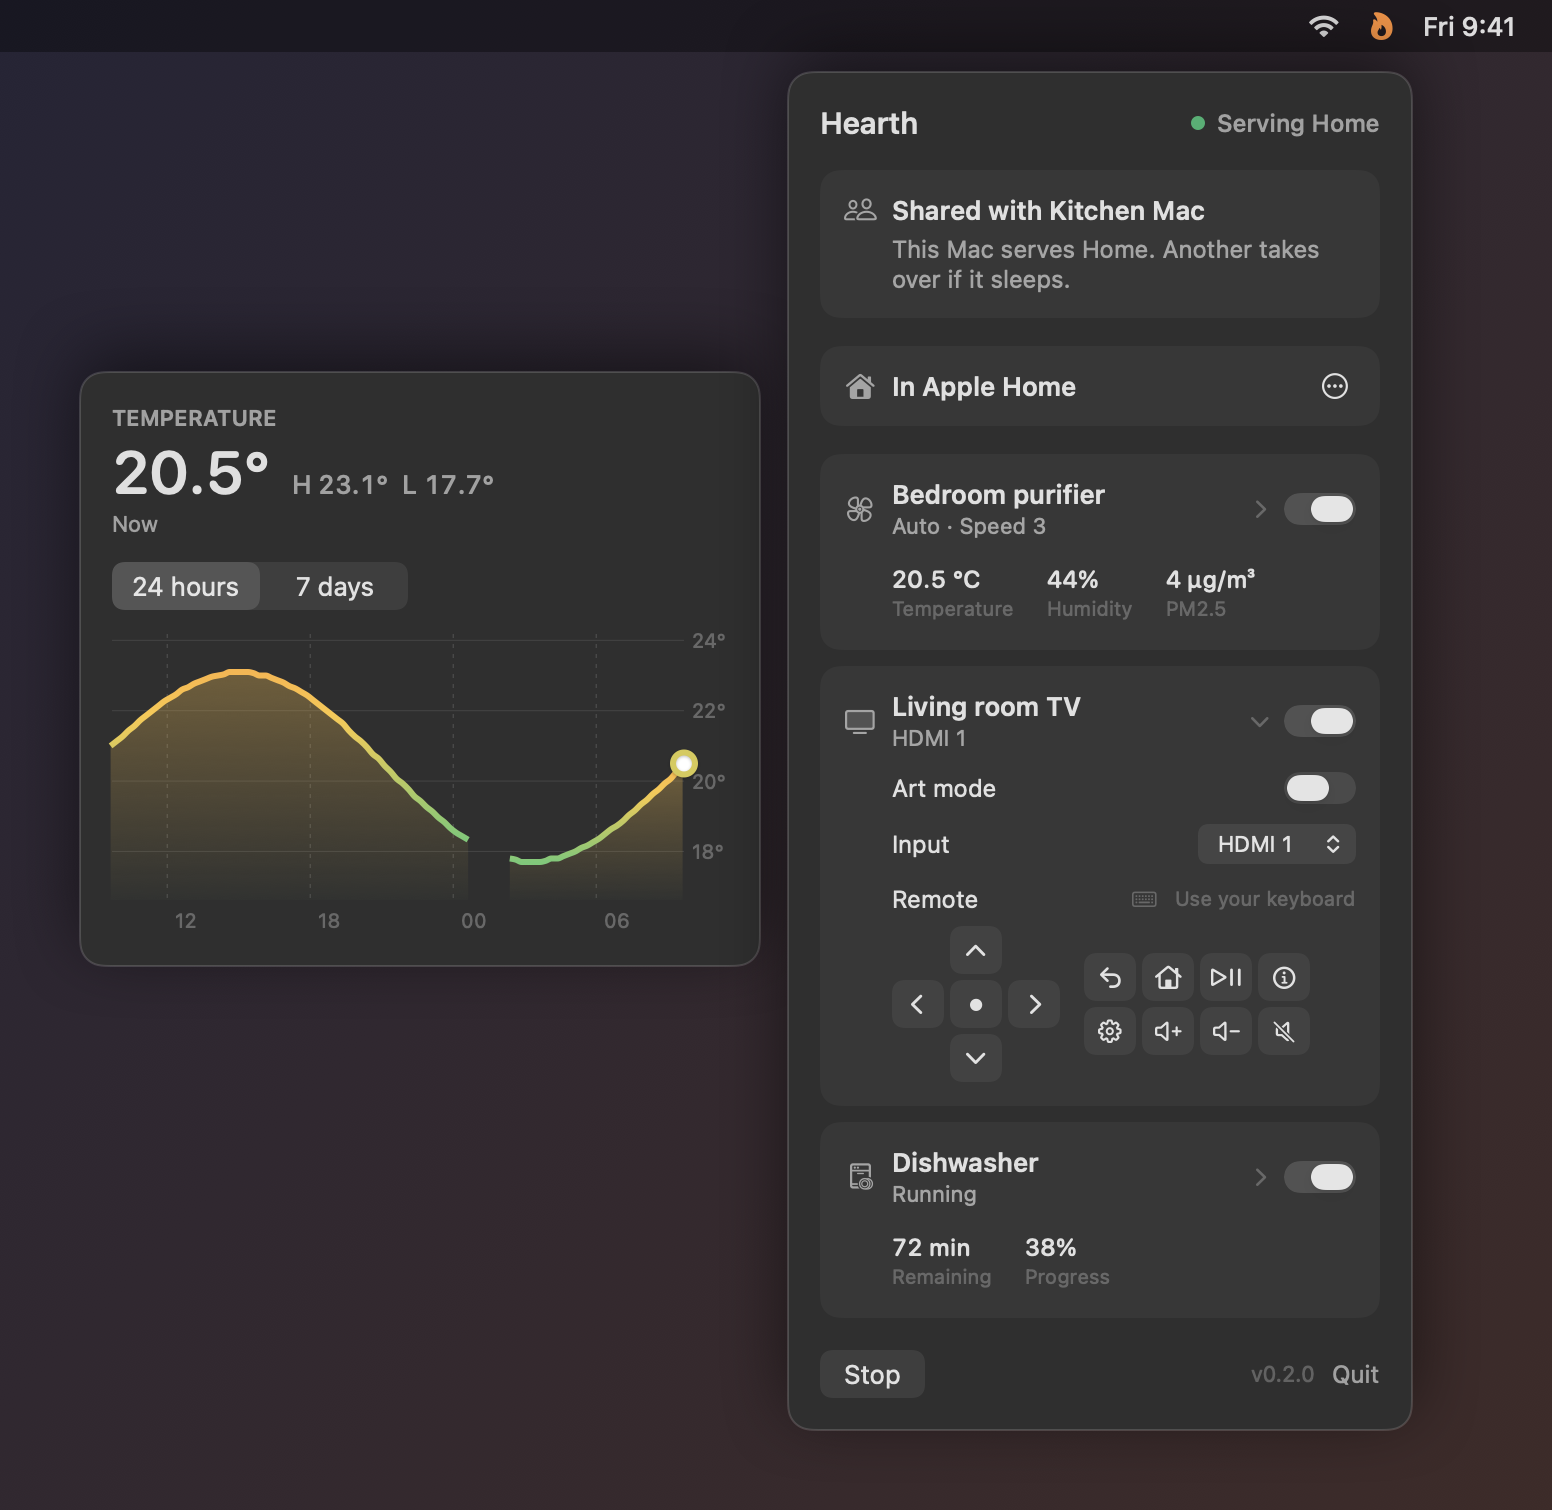
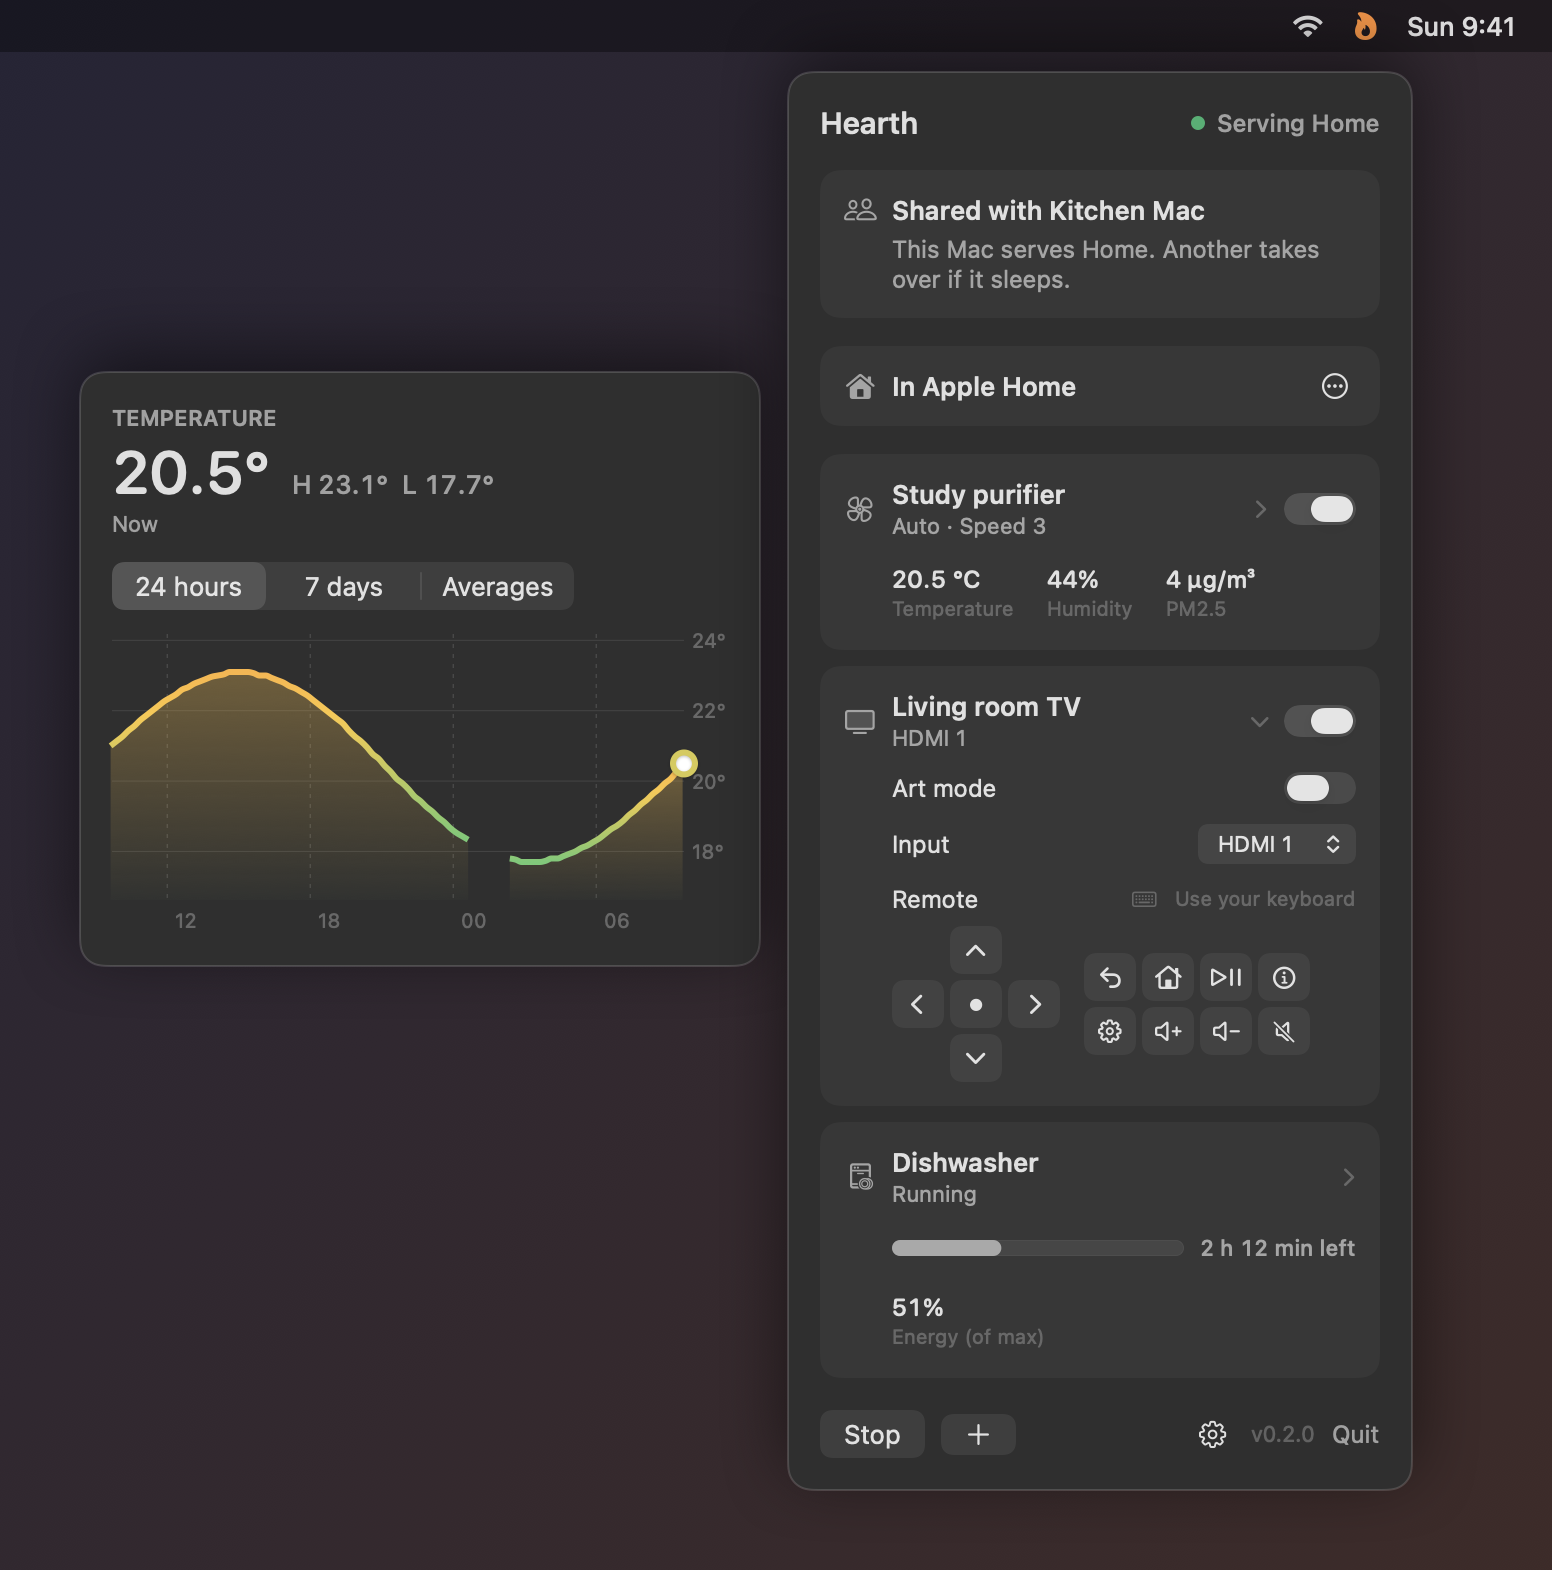
README: screenshots of the current menu bar, and a programme running (#32)
The menu bar, history and a new pair (a dishwasher running beside a
reading's Averages) rendered from the real views with made-up devices.

diff --git a/README.md b/README.md
@@ -60,6 +60,13 @@ downloads the latest release for this machine (Linux x86_64 or aarch64, macOS Ap
   </picture>
 </p>
 
+<p align="center">
+  <picture>
+    <source media="(prefers-color-scheme: dark)" srcset="docs/screens/programme-dark.png">
+    <img src="docs/screens/programme-light.png" alt="A dishwasher running its programme, the time left at the centre with Stop below, beside a reading's Averages: today against its usual range" width="760">
+  </picture>
+</p>
+
 A device with a remote, like the Frame, gets a pad in its card, and while the card is open the keyboard drives it: arrows, Return to select, Escape to go back.
 
 **CLI.** Talks to the running bridge, so it shares the devices' connections and answers in milliseconds, from any computer in the group.
